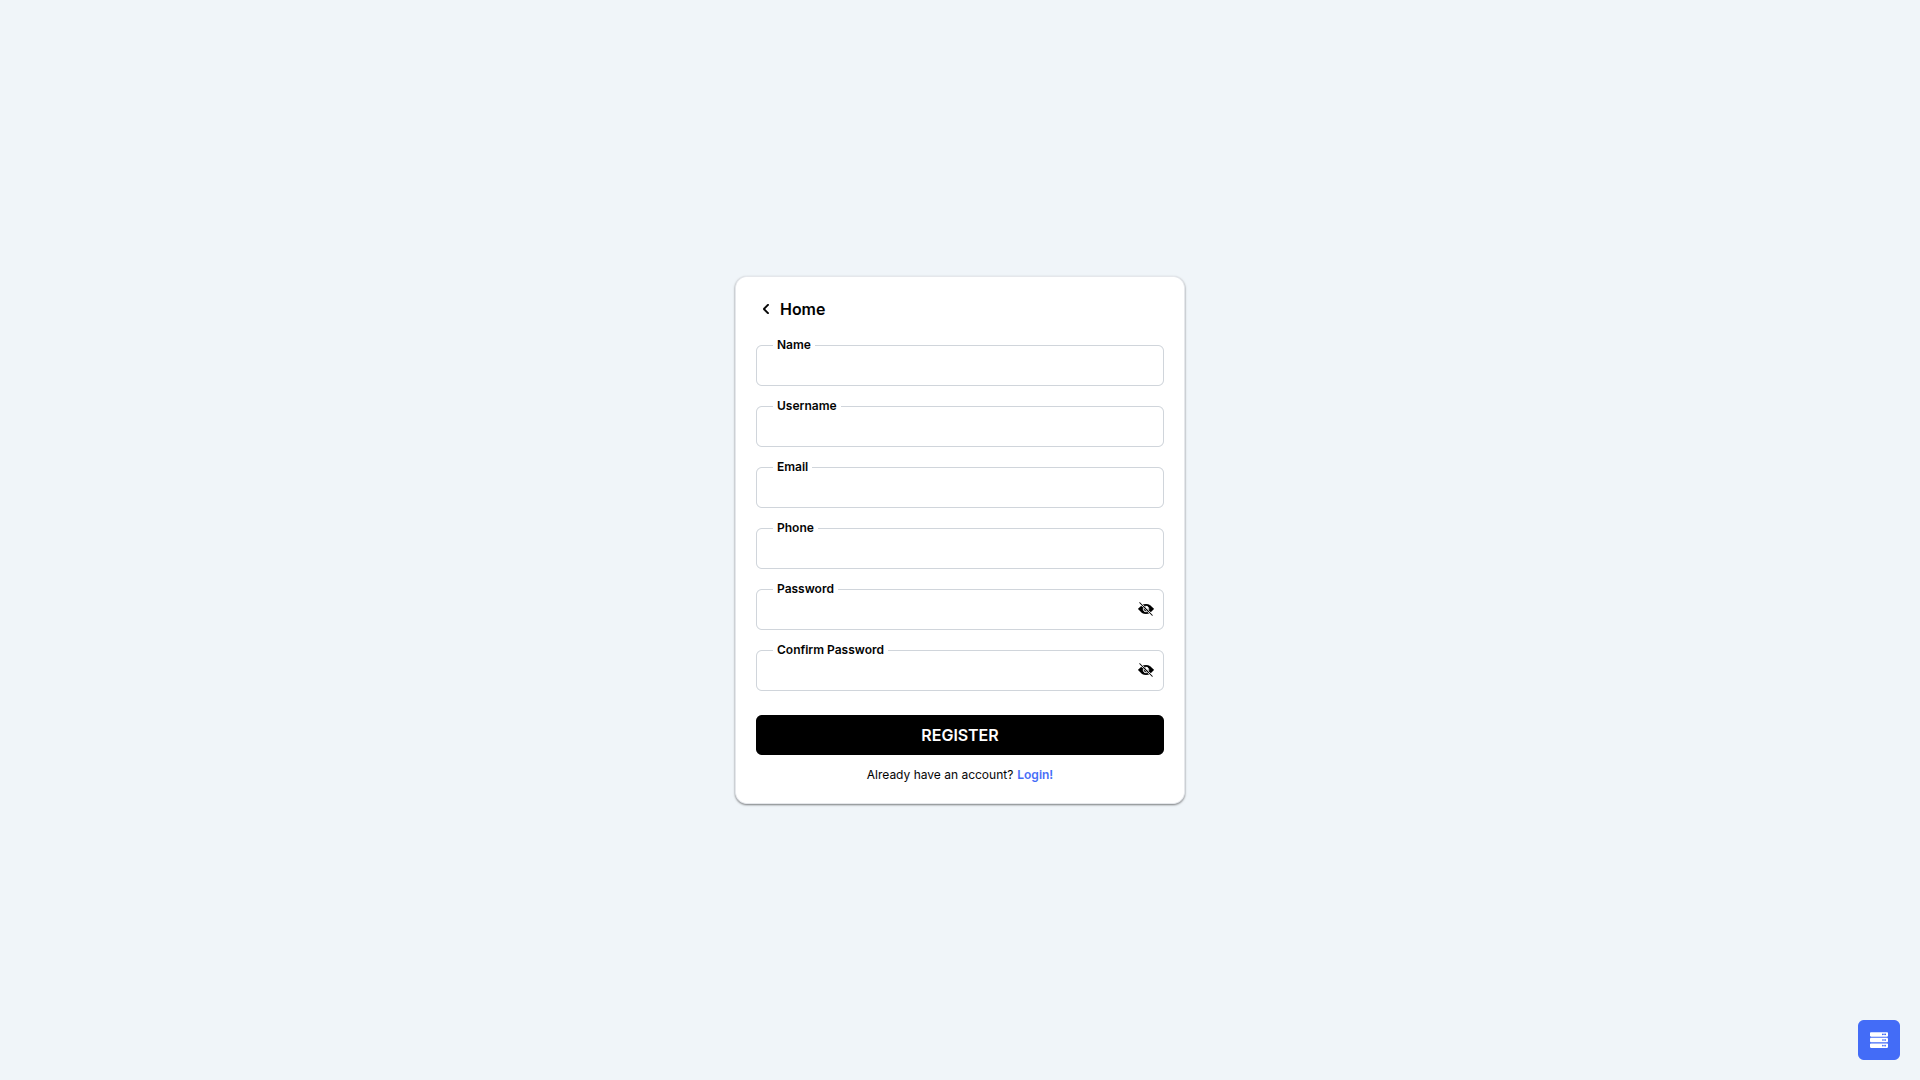
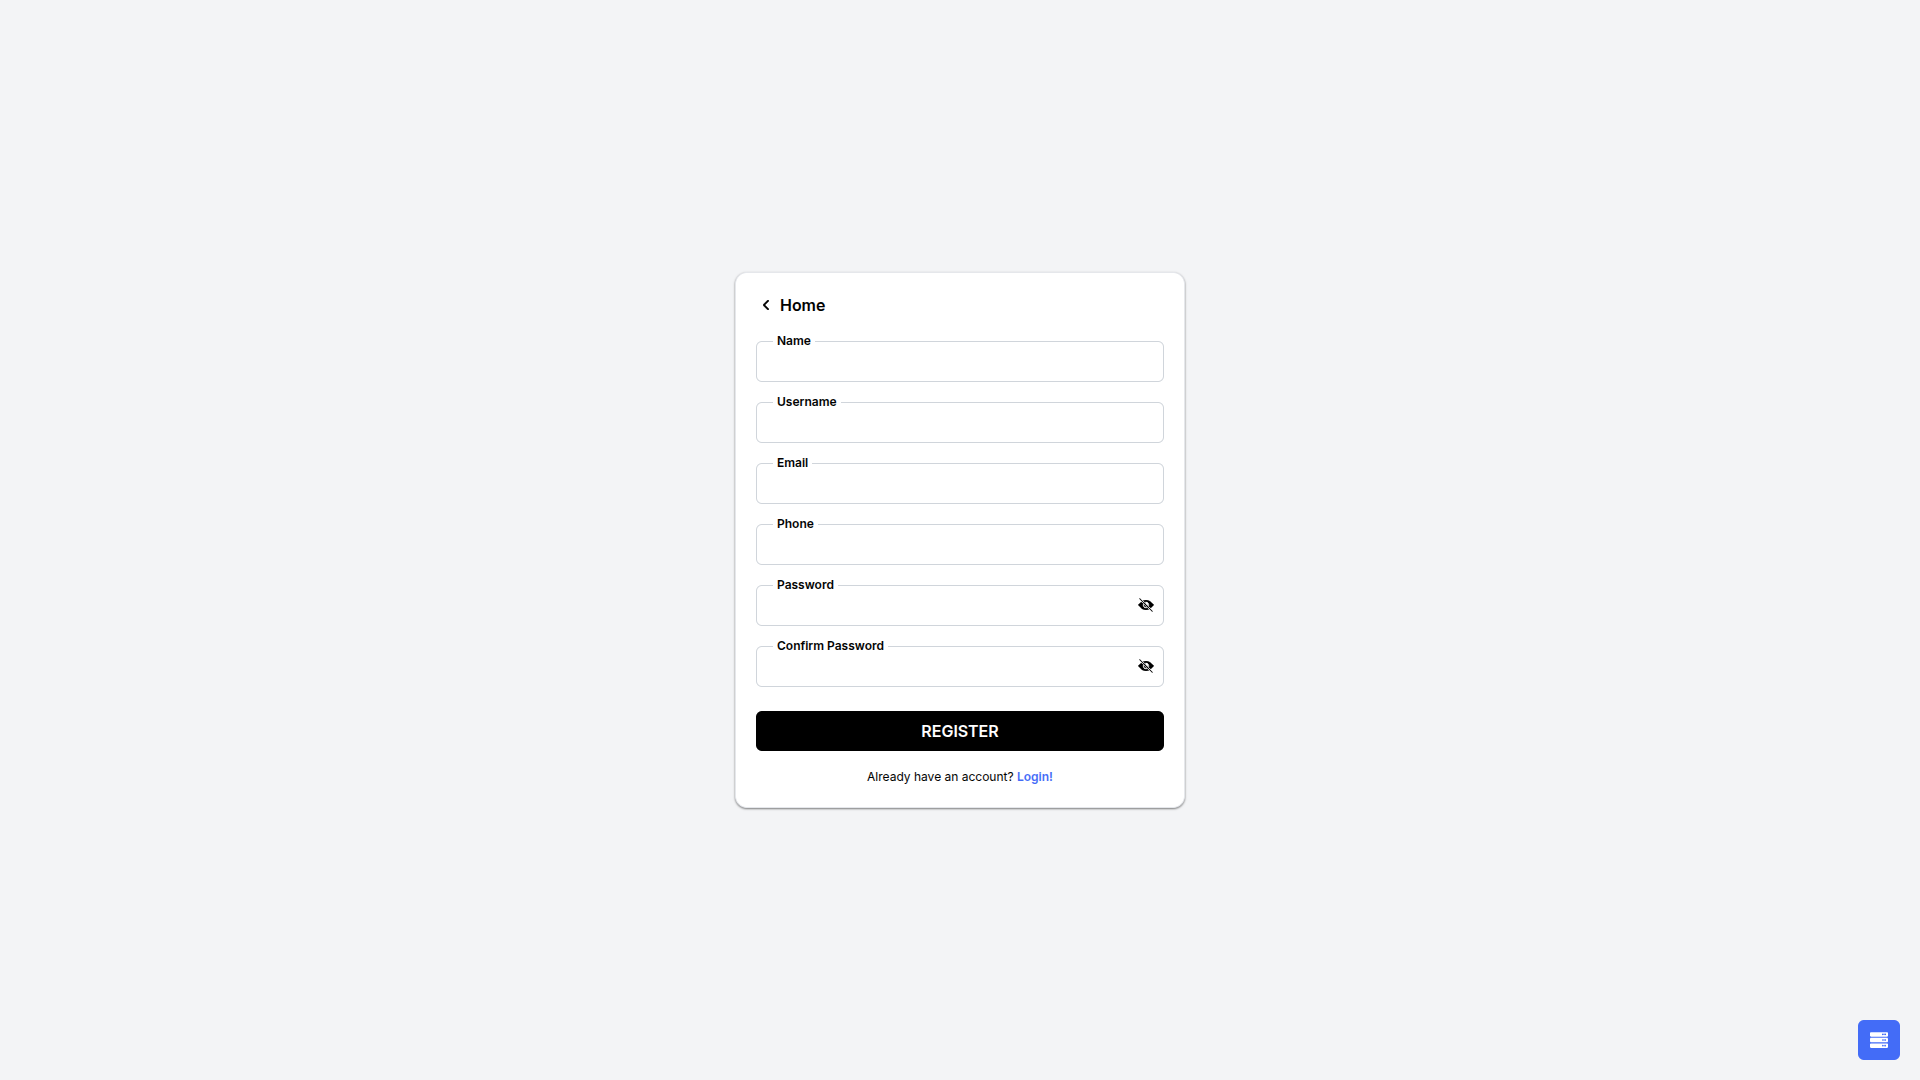
refactor: 💡 auth

diff --git a/src/layouts/authentication/pages/register/modules/main/batches/content/index.tsx b/src/layouts/authentication/pages/register/modules/main/batches/content/index.tsx
@@ -99,7 +99,7 @@ export const Content: FC = (): ReactElement => {
   };
 
   return (
-    <main className="bg-slate-100 dark:bg-slate-900">
+    <main>
       <FormContainer className={{ innerContainer: "max-h-[556px] w-full max-w-[450px]" }} href={"/"} label={"Home"}>
         <form className="flex w-full flex-col gap-3 overflow-y-auto" onSubmit={handleSubmit(onSubmit)}>
           {FORM_FIELDS_DATA.map((dt, i) => (

diff --git a/src/layouts/authentication/pages/login/modules/main/batches/content/index.tsx b/src/layouts/authentication/pages/login/modules/main/batches/content/index.tsx
@@ -72,7 +72,7 @@ export const Content: FC = (): ReactElement => {
   };
 
   return (
-    <main className="bg-slate-100 dark:bg-slate-900">
+    <main>
       <FormContainer className={{ innerContainer: "w-full max-w-[300px]" }} href={"/"} label={"Home"}>
         <form className="flex w-full flex-col gap-3" onSubmit={handleSubmit(onSubmit)}>
           <ExampleInput
